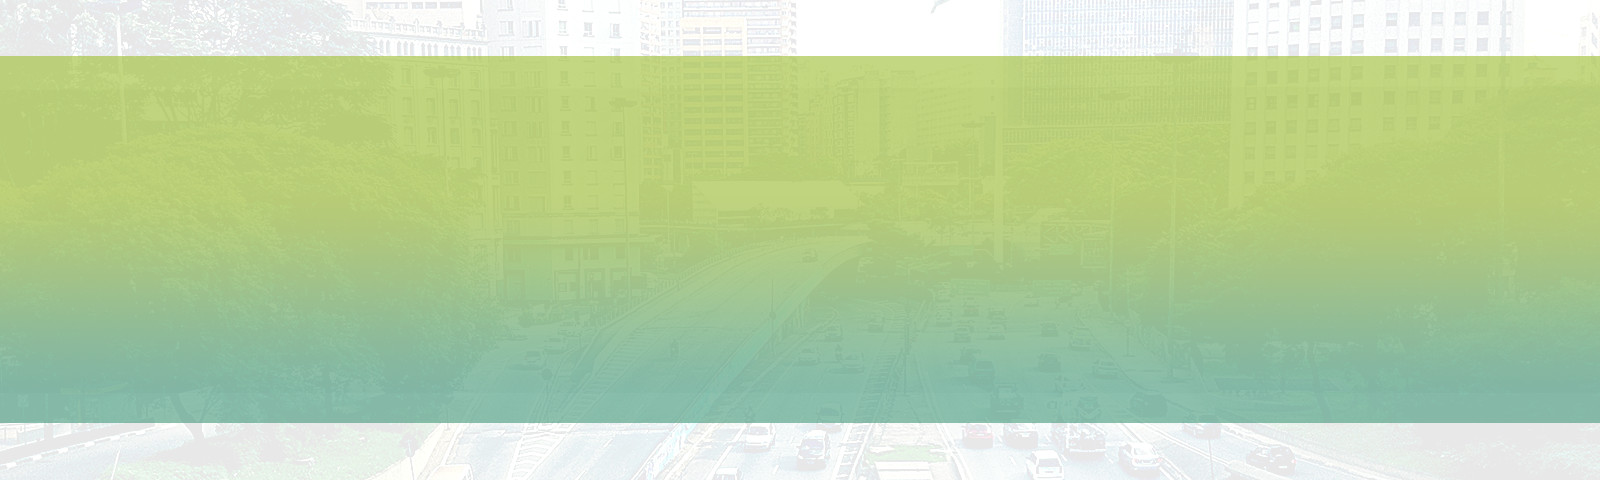
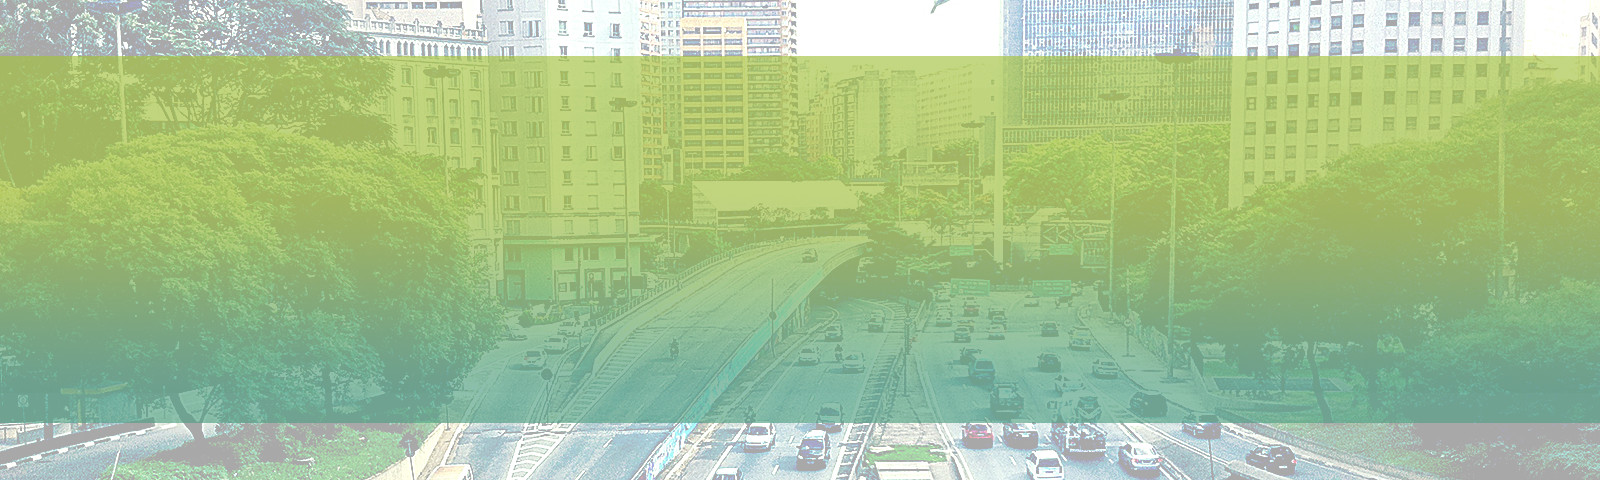
Evolução do html e css.

diff --git a/index.html b/index.html
@@ -11,6 +11,8 @@
     <link rel="stylesheet" href="https://maxcdn.bootstrapcdn.com/bootstrap/3.3.0/css/bootstrap.min.css">
     <!-- Custom Theme CSS -->
     <link href="css/style.css" rel="stylesheet">
+
+    <link rel="icon" type="image/png" href="favicon.png">
 </head>
 
 <body id="page-top" data-spy="scroll" data-target=".navbar-custom">
@@ -46,58 +48,103 @@
     </nav>
 
     <section class="intro">
+        <img id="header-bg" src="img/bg-header.png" border="0">
 		<div class="container">
 			<div class="logo-header">
-				<img src="img/header-logo.svg" border="0">
-                <h2>Quer acompanhar e influenciar as diretrizes dos gastos públicos da sua cidade?</h2>
+                <div class="row">
+                    <div class="col-sm-4 col-sm-offset-4 col-xs-8 col-xs-offset-2">
+                        <img class="full-width" src="img/header-logo.svg" border="0">
+                    </div>
+                </div>
+                <div class="row">
+                    <div class="col-sm-2 col-sm-offset-5 col-xs-8 col-xs-offset-2">
+                        <img class="hr" src="img/hr-white.png" height="1" border="0">
+                    </div>
+                </div>
+                <div class="row">
+                    <div class="col-sm-8 col-sm-offset-2 col-xs-10 col-xs-offset-1">
+                        <h2>Quer acompanhar e influenciar as diretrizes dos gastos públicos da sua cidade?</h2>
+                    </div>
+                </div>
 			</div>
 		</div>
     </section>
 
     <section id="about" class="container content-section text-center">
-        <div class="row">
-            <img src="img/about-icon.png" border="0">
-            <div class="hr">
-                <img src="img/hr.png" border="0">
+        <div class="container">
+            <div class="row">
+                <img src="img/about-icon.png" border="0">
             </div>
-            <p class="green-text medium-text">Com a plataforma <b>Gastos Abertos</b>, acompanhe de forma simples e direta a <b>gestão financeira da sua cidade</b>.</p>
-            <p>Gastos Abertos tem por objetivo facilitar a compreensão das pessoas a respeito dos gastos públicos.
-            Queremos fornecer ferramentas para que a sociedade civil organizada e os veículos de comunicação possam estimular os cidadãos a acompanhar e influenciar as tomadas de decisão sobre os gastos públicos.</p>
+            <div class="row">
+                <div class="col-sm-6 col-sm-offset-3 col-xs-10 col-xs-offset-1">
+                    <img class="hr2" src="img/hr-gray.png" height="2" border="0">
+                </div>
+            </div>
+            <div class="row">
+                <div class="col-md-8 col-md-offset-2 col-xs-10 col-xs-offset-1">
+                    <p class="green-text medium-text">Com a plataforma <b>Gastos Abertos</b>, acompanhe de forma simples e direta a <b>gestão financeira da sua cidade</b>.</p>
+                    <p>Gastos Abertos tem por objetivo facilitar a compreensão das pessoas a respeito dos gastos públicos.<br>
+                    Queremos fornecer ferramentas para que a sociedade civil organizada e os veículos de comunicação possam estimular os cidadãos a acompanhar e influenciar as tomadas de decisão sobre os gastos públicos.</p>
+                </div>
+            </div>
+            <div class="row">
+                <div class="col-sm-4 col-sm-offset-4 col-xs-10 col-xs-offset-1">
+                    <img class="hr2" src="img/hr-gray.png" height="2" border="0">
+                </div>
+            </div>
         </div>
     </section>
 
     <section id="subscribe" class="content-section green-section text-center">
         <div class="container">
             <p class="green-text"><b>Inscreva-se na nossa lista de emails</b></p>
-			<div class="hr">
-                <img src="img/hr.png" border="0">
-			</div>
             <div class="row">
-                <form class="form-inline">
-                    <div class="form-group">
+                <div class="col-md-8 col-md-offset-2 col-xs-10 col-xs-offset-1">
+                    <img class="hr2" src="img/hr.png" height="1" border="0">
+                </div>
+            </div>
+            <form>
+                <div class="row">
+                    <div class="form-group col-md-3 col-md-offset-2 col-sm-4 col-sm-offset-1 col-xs-10 col-xs-offset-1">
                         <label class="sr-only" for="inputName">Nome</label>
                         <input type="text" class="form-control" id="inputName" placeholder="Nome">
                     </div>
-                    <div class="form-group">
+                    <div class="form-group col-md-3 col-sm-4 col-xs-10 col-xs-offset-1">
                         <label class="sr-only" for="inputEmail">E-mail</label>
                         <input type="email" class="form-control" id="inputEmail" placeholder="E-mail">
                     </div>
-                    <button type="submit" class="btn btn-default">Inscrever</button>
-                </form>
-            </div>
+                    <div class="col-md-2 col-sm-2 col-xs-10 col-xs-offset-1">
+                        <button type="submit" class="btn btn-default full-width">Inscrever</button>
+                    </div>
+                </div>
+            </form>
         </div>
     </section>
 
     <section id="follow" class="content-section green-section text-center">
         <div class="container">
-            <img src="img/follow-logo.svg" border="0">
-            <p>Acompanhe o projeto</p>
-            <p>#gastosabertos</p>
+            <div class="row">
+                <div class="col-lg-2 col-lg-offset-5 col-sm-4 col-sm-offset-4 col-xs-6 col-xs-offset-3">
+                    <img class="full-width" src="img/follow-logo.svg" border="0">
+                </div>
+            </div>
+
+            <p class="medium-text">Acompanhe o projeto <br>
+            <a class="irc" href="http://webchat.freenode.net/?channels=gastosabertos">#gastosabertos</a></p>
         </div>
     </section>
 
 	<footer>
 		<div class="container">
+            <p>
+                Gastos Abertos é um projeto coordenado pela:
+                <img src="img/okbr-logo.png" border="0">
+                Apoio:
+                <img id="google-logo" src="img/google-logo.svg" border="0">
+            </p>
+            <p>
+                Um projeto da Open Knowledge Brasil 2014 - Todo conteúdo desse site é licensiado sob uma Licença <a rel="license" href="http://creativecommons.org/licenses/by/3.0/br/">Creative Commons Atribuição 3.0 Brasil</a>.
+            </p>
 		</div>
 
 	</footer>

diff --git a/css/style.css b/css/style.css
@@ -19,15 +19,26 @@ h2 {
   font-size: 18px;
 }
 
+p {
+  margin-top: 20px;
+}
 
 .intro {
-    padding: 60px 0;
+    padding: 40px 0;
     color: white;
     text-align: center;
-    background: url(../img/bg-header.png) no-repeat center center scroll;
-    background-size: contain;
     /*background-color: #f5f5f5;*/
 }
+
+@media (min-width:1000px){
+    .intro {
+        padding: 70px 0;
+        color: white;
+        text-align: center;
+        /*background-color: #f5f5f5;*/
+    }
+}
+
 
 .green-text {
     color : #6aa962;
@@ -37,19 +48,73 @@ h2 {
     font-size: 16px;
 }
 
+.hr {
+    width : 100%;
+    margin-top : 30px;
+}
+
+.hr2 {
+    width : 100%;
+    margin : 30px 0;
+}
+
+.full-width{
+    width : 100%;
+    height: auto;
+}
+
+
+.irc{
+    font-size: 18px;
+    font-weight: bold;
+}
+
+a.irc,
+a.irc:hover,
+a.irc:visited {
+    color: inherit;
+    text-decoration: inherit;
+}
+
+#header-logo {
+    max-width: 100%;
+    height: auto;
+}
+
+#header-bg {
+    position: absolute;
+    top: 0;
+    left: 0;
+    min-width: 100%;
+    min-height: 200px;
+    z-index: -1;
+}
+
 #about {
+    margin-top: 30px;
+}
+
+
+
+#subscribe {
+    margin: 0 0 80px 0;
 }
 
 #follow {
-    padding: 20px 0;
+    padding: 60px 0;
     color: white;
-    background: url(../img/bg-follow.png) no-repeat center center scroll;
+    background: url(../img/bg-follow.jpg) no-repeat center center scroll;
     background-color: #a3c03d;
 }
 
 #footer {
     font-size: 12px;
     background-color: white;
+    text-align: center;
+}
+
+#google-logo {
+    max-height: 20px;
 }
 
 .btn-default {
